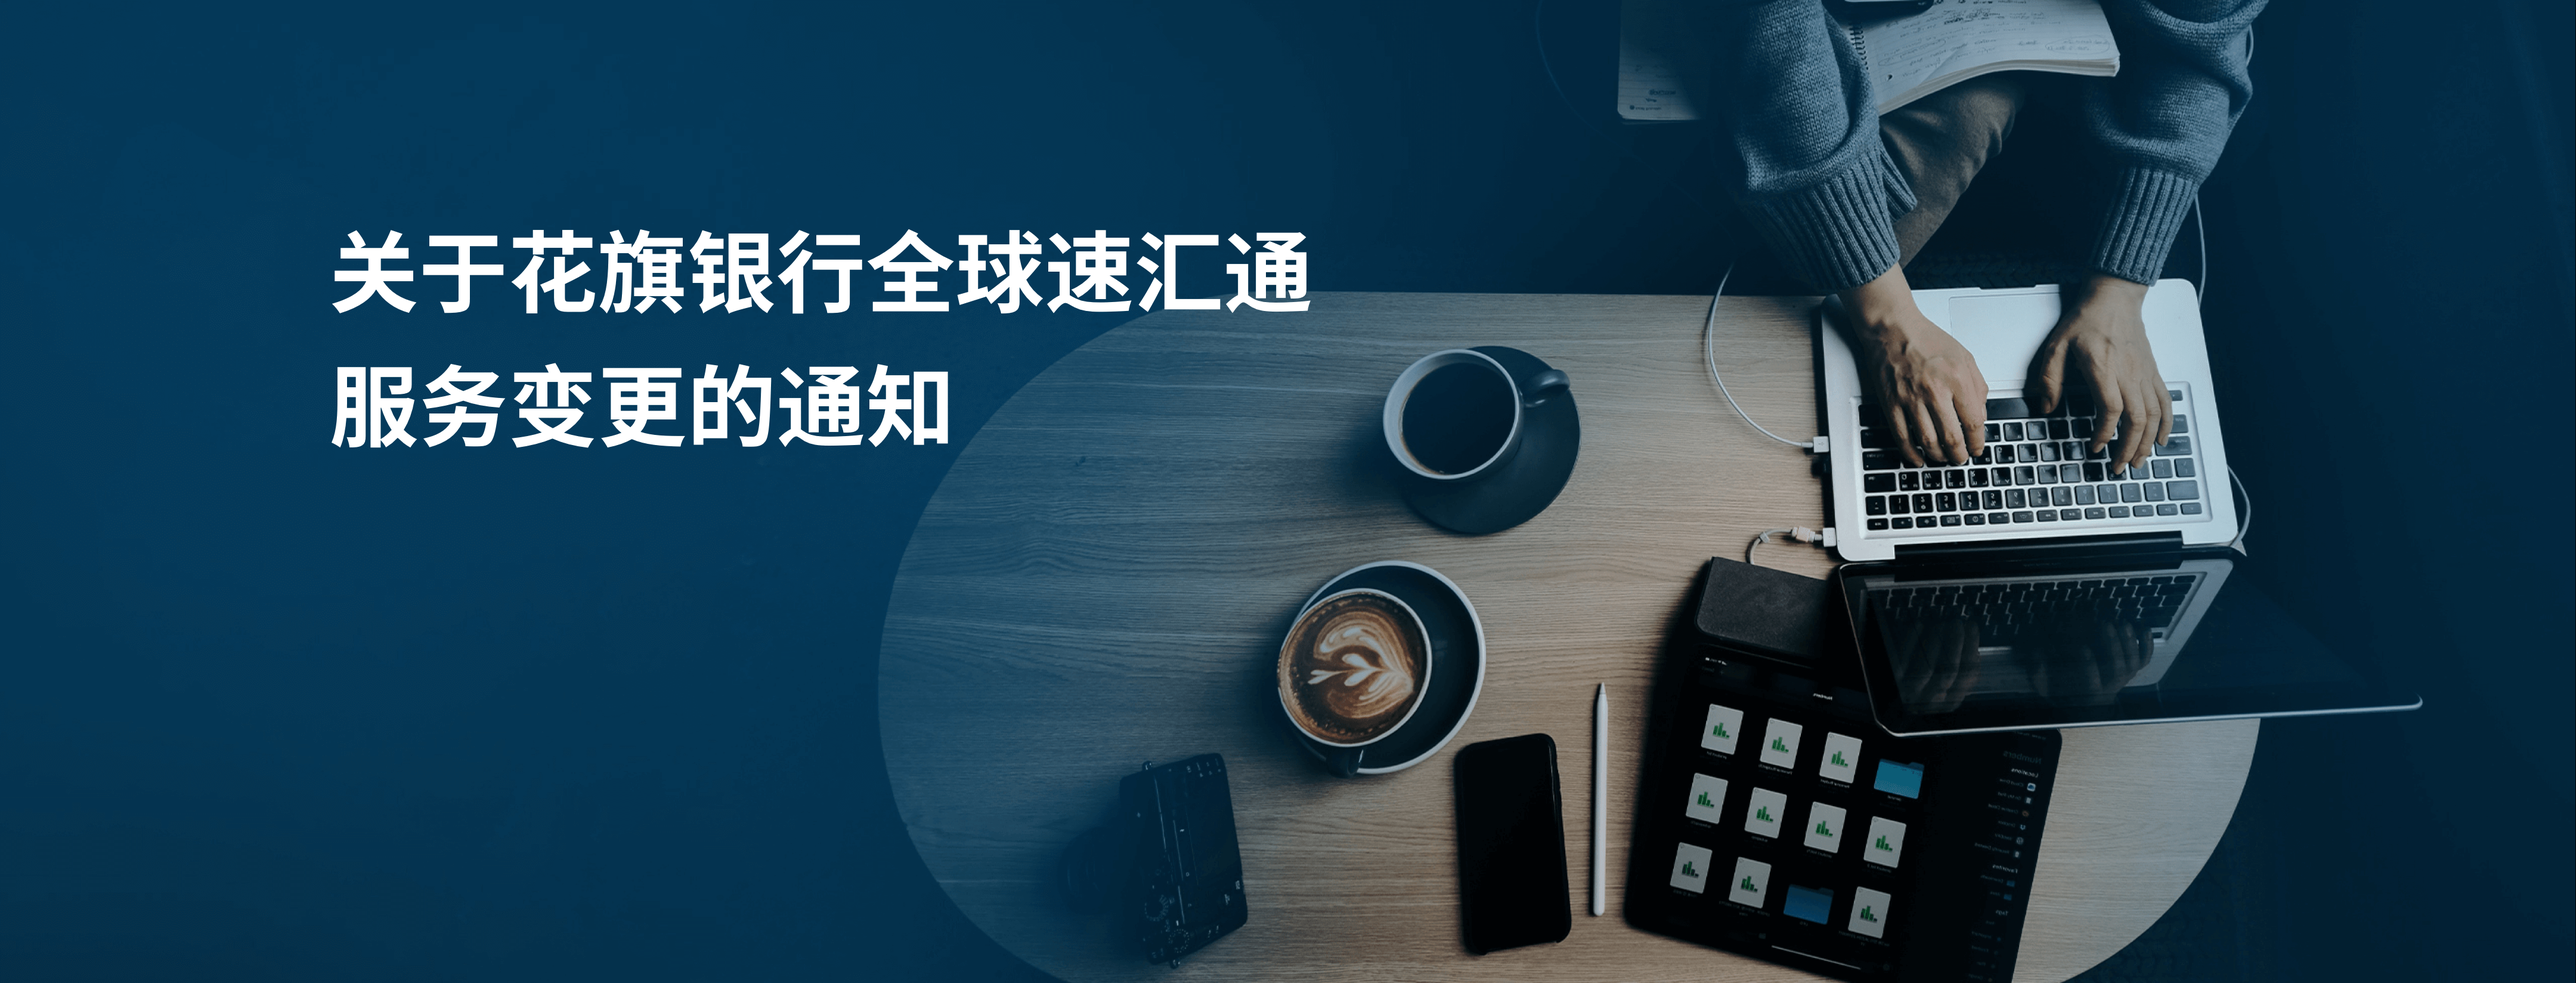
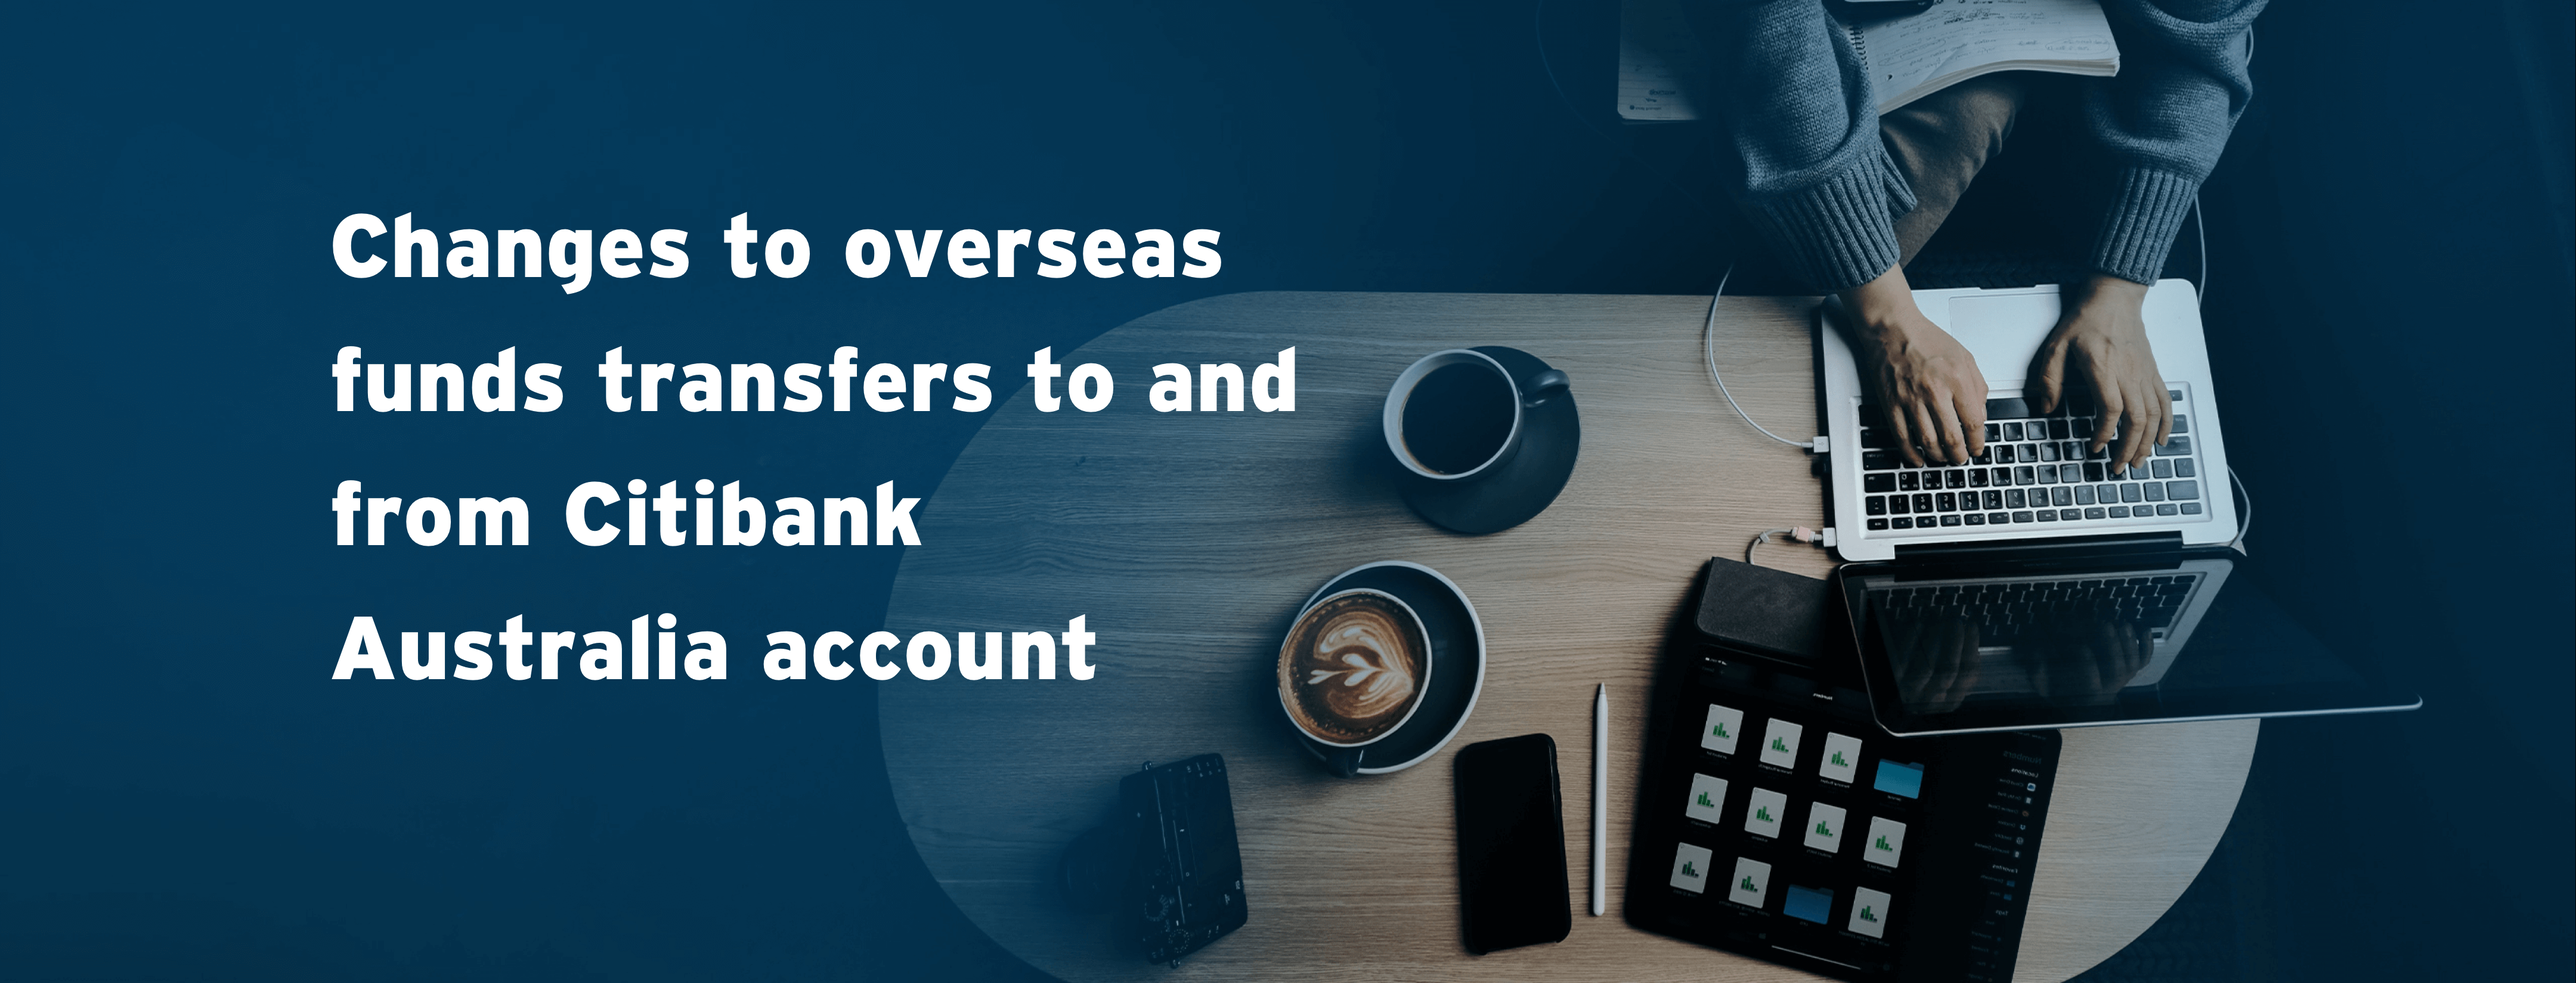
更新

Changed region(s): [[0.125, 0.2164, 0.5312, 0.4636], [0.125, 0.6182, 0.4375, 0.7109], [0.125, 0.4945, 0.375, 0.5564]]

diff --git a/03-04 英文版速汇通/速汇通/index.html b/03-04 英文版速汇通/速汇通/index.html
@@ -18,23 +18,30 @@
 
     <!-- 信息栏 -->
     <div class="honorific">
-      <h3 class="title">尊敬的客户：</h3>
+      <h3 class="title">Dear Customer:</h3>
       <p class="text">
-        自<span class="font">2022</span>年<span class="font">4</span>月<span
-          class="font">24</span>日起，您将无法通过花旗全球速汇通服务向澳大利亚花旗银行账户进行转账或接受来自澳大利亚花旗银行账户的汇款。您的收款人名单中澳大利亚花旗银行的全球速汇通收款人信息将被自动移除。您可登录花旗中国网上银行（<span
-          class="font">www.citibank.com.cn</span>）创建新的海外收款人（澳大利亚花旗银行的<span class="font">SWIFT</span>代码为：<span
-          class="font">CITIAU2X</span>），并通过网上银行“转账汇款”功能进行跨境汇款。花旗银行全球速汇通服务的其他国家/地区仍照常运作。为了更好的帮助您为这一变化做好准备，我们准备了<span
-          class="font">SWIFT</span>渠道跨境汇款功能教程供您参考。
+        On 24 April 2022 you will no longer be able to transfer or receive funds from Citibank Australia accounts
+        through Citibank Global Transfer.
+        <br><br>
+        You can still use Citibank Online to transfer funds to Citibank Australia accounts using Citibank Australia’s
+        SWIFT code - CITIAU2X. Do note that existing Australia payees in Citibank Global Transfer will be removed and
+        you will have to create payees for SWIFT transfer in Citibank Online.Your Citibank Global Transfer service to
+        all other countries will continue to work as usual.
+        <br><br>
+        To help you prepare for this change we’ve created a quick tutorial and answers to frequently asked questions.
+        <br><br>
+        Yours sincerely,
+        <br><br>
+        The Citi Team
       </p>
       <br>
       <br>
-      <h3 class="foot">花旗银行中国</h3>
     </div>
 
     <!-- 轮播图 -->
     <div class="rotation">
-      <h1 class="title">如何使用花旗网上银行通过<span class="font">SWIFT</span>转账<br />轻松完成跨境汇款</h1>
-      <p class="text">简单五步</p>
+      <h1 class="title">How to transfer funds overseas via SWFIT transfer<br /> with Citibank Online easily</h1>
+      <p class="text">5 Easy Steps</p>
 
 
       <div class="swiper-container">
@@ -59,10 +66,8 @@
           <div class="swiper-slide"></div>
           <div class="swiper-slide"></div>
         </div>
-        <div class="swiper-button-next"
-          style="background-color: rgba(0,0,0,0.2);padding: 14px;position: absolute;top: 250px;"></div>
-        <div class="swiper-button-prev"
-          style="background-color: rgba(0,0,0,0.2);padding: 14px;position: absolute;top: 250px;""></div>
+        <div class="swiper-button-next" style="color:#666666;padding: 14px;position: absolute;top: 290px;"></div>
+        <div class="swiper-button-prev" style="color:#666666;padding: 14px;position: absolute;top: 290px;""></div>
       </div>
       <br>
       <br>
@@ -73,8 +78,9 @@
 
       <!-- 全球 -->
       <div class="global">
-        <h1 class="title">花旗银行全球速汇通服务<br />目前仍可在<span class="font">17</span>个国家/地区使用</h1>
-        <p class="subtitle">包括中国在内，花旗银行全球速汇通服务仍可用于以下国家/地区的花旗银行账户：</p>
+        <h1 class="title">Citibank Global Transfer Available in 17 Markets</h1>
+        <p class="subtitle">Besides China, Citibank Global Transfer will remain available to and from Citibank accounts
+          in<br /> the following markets:</p>
         <p class="country">
           <img class="country-img" src="./images/pc/country.png">
         </p>
@@ -85,12 +91,12 @@
 
       <!-- 常见问题 -->
       <div class="problem">
-        <h1 class="title">常见问题</h1>
+        <h1 class="title">Frequently Asked Questions</h1>
         <div class="ques-box">
           <div class="ques-item-box">
             <div class="ques-item">
               <div class="ques-show">
-                <span class="ques-text"><span>如何使用<span class="font">SWIFT</span>进行跨境汇款？</span></span>
+                <span class="ques-text">How do I transfer money overseas using SWIFT?</span>
                 <span class="click">+</span>
               </div>
               <div class="click-show" style="display: none;">

diff --git a/03-02 速汇通/速汇通/index.html b/03-02 速汇通/速汇通/index.html
@@ -59,10 +59,8 @@
           <div class="swiper-slide"></div>
           <div class="swiper-slide"></div>
         </div>
-        <div class="swiper-button-next"
-          style="background-color: rgba(0,0,0,0.2);padding: 14px;position: absolute;top: 250px;"></div>
-        <div class="swiper-button-prev"
-          style="background-color: rgba(0,0,0,0.2);padding: 14px;position: absolute;top: 250px;""></div>
+        <div class="swiper-button-next" style="color:#666666;padding: 14px;position: absolute;top: 290px;"></div>
+        <div class="swiper-button-prev" style="color:#666666;padding: 14px;position: absolute;top: 290px;""></div>
       </div>
       <br>
       <br>

diff --git a/03-04 英文版速汇通/速汇通/style/index.less b/03-04 英文版速汇通/速汇通/style/index.less
@@ -36,7 +36,7 @@
   // 信息栏
   .honorific {
     width: 1100px;
-    height: 296px;
+    height: 370px;
     margin: auto;
     margin-top: 67px;
     text-align: justify;
@@ -51,7 +51,6 @@
       color: #333333;
       line-height: 24px;
       word-break: break-all;
-      text-indent: 2em;
     }
 
     .title {

diff --git a/03-04 英文版速汇通/速汇通/style/index.css b/03-04 英文版速汇通/速汇通/style/index.css
@@ -28,7 +28,7 @@
 }
 #pc .honorific {
   width: 1100px;
-  height: 296px;
+  height: 370px;
   margin: auto;
   margin-top: 67px;
   text-align: justify;
@@ -43,7 +43,6 @@
   color: #333333;
   line-height: 24px;
   word-break: break-all;
-  text-indent: 2em;
 }
 #pc .honorific .title {
   font-size: 15px;
